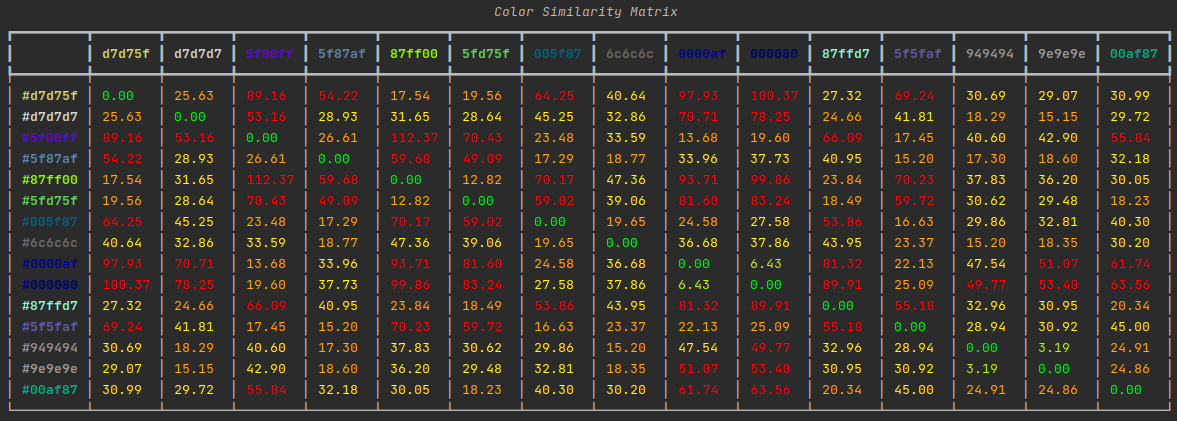
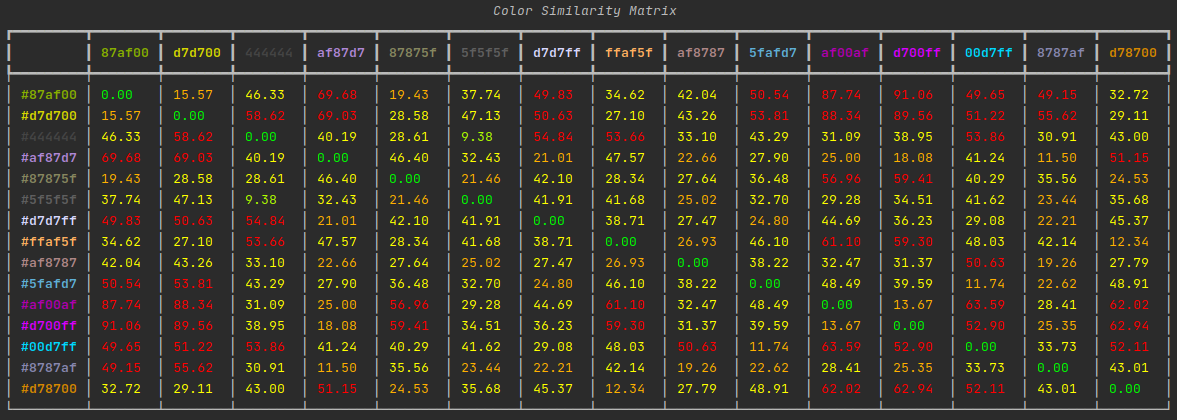
clean up algos

Changed region(s): [[0.0, 0.0, 1.0, 0.9595]]

diff --git a/src/dbscan.py b/src/dbscan.py
@@ -1,20 +1,15 @@
-import matplotlib.pyplot as plt
-import numpy as np
 
 from sklearn.metrics.pairwise import pairwise_distances
 from sklearn.cluster import DBSCAN
-from src.example import make_matrix
+from src.example import make_matrix, print_clusters
 
 
 # Try out DBScan
 colors, distance_matrix = make_matrix()
-distances = pairwise_distances(distance_matrix, metric="precomputed")
 
 # Compute DBSCAN
 # The results are pretty bad
-db = DBSCAN(eps=17, metric="precomputed", min_samples=1).fit(distances)
-core_samples_mask = np.zeros_like(db.labels_, dtype=bool)
-core_samples_mask[db.core_sample_indices_] = True
+db = DBSCAN(eps=17, metric="precomputed", min_samples=1).fit(distance_matrix)
 labels = db.labels_
 
 # Number of clusters in labels, ignoring noise if present.
@@ -24,24 +19,7 @@ n_noise_ = list(labels).count(-1)
 print("Estimated number of clusters: %d" % n_clusters_)
 print("Estimated number of noise points: %d" % n_noise_)
 
-# #############################################################################
-# Plot result
-
-# Black removed and is used for noise instead.
-unique_labels = set(labels)
-colors = [plt.cm.Spectral(each) for each in np.linspace(0, 1, len(unique_labels))]
-for k, col in zip(unique_labels, colors):
-    if k == -1:
-        # Black used for noise.
-        col = [0, 0, 0, 1]
-
-    class_member_mask = labels == k
-
-    xy = distances[class_member_mask & core_samples_mask]
-    plt.plot(xy[:, 0], xy[:, 1], "o", markerfacecolor=tuple(col), markeredgecolor="k", markersize=14)
-
-    xy = distances[class_member_mask & ~core_samples_mask]
-    plt.plot(xy[:, 0], xy[:, 1], "o", markerfacecolor=tuple(col), markeredgecolor="k", markersize=6)
-
-plt.title("Estimated number of clusters: %d" % n_clusters_)
-plt.show()
+if -1 in labels:
+    print('There were no clusters found')
+else:
+    print_clusters(colors, labels, distance_matrix)

diff --git a/src/example.py b/src/example.py
@@ -8,7 +8,6 @@ from rich.console import Console
 from rich.table import Table
 from rich.text import Text
 
-NUMBER_OF_COLORS = 15
 
 # TODO: Instead of console tables, make a heatmap graphic
 # TODO: Instead of console tables, try to make some interactive web graph
@@ -59,19 +58,19 @@ def print_matrix(hex_colors, distance_matrix, title='Color Similarity Matrix'):
     console.print(table)
 
 
-def make_matrix():
+def make_matrix(size=15):
     """
-    Return a 2D numpy array consisting of a distance matrix as well as print out the matrix
+    Make a distance matrix of random terminal colors
     :return:
     """
     # Choose some random color
     all_colors_hex = list(_xterm_colors.values())
-    chosen_colors_hex = random.sample(all_colors_hex, NUMBER_OF_COLORS)
+    chosen_colors_hex = random.sample(all_colors_hex, size)
     chosen_colors_rgb = [sRGBColor.new_from_rgb_hex(x) for x in chosen_colors_hex]
     chosen_colors_lab = [convert_color(x, LabColor) for x in chosen_colors_rgb]
 
     # Generate a similarity matrix of all colors
-    distance_matrix = np.zeros(shape=(NUMBER_OF_COLORS, NUMBER_OF_COLORS), dtype=float)
+    distance_matrix = np.zeros(shape=(size, size), dtype=float)
     for i, color_1 in enumerate(chosen_colors_lab):
         for j, color_2 in enumerate(chosen_colors_lab):
             distance_matrix[i, j] = delta_e_cie2000(color_1, color_2)
@@ -105,5 +104,5 @@ def print_clusters(colors, clusters, distance_matrix):
                 cluster['matrix'][i, j] = distance_matrix[colors.index(color_1), colors.index(color_2)]
 
     for i, cluster in divided_clusters.items():
-        print_matrix(cluster['colors'], cluster['matrix'], title=f'Cluster {i}')
+        print_matrix(cluster['colors'], cluster['matrix'], title=f'Cluster #{i + 1}')
 

diff --git a/src/agglomerative.py b/src/agglomerative.py
@@ -2,20 +2,19 @@
 # https://scikit-learn.org/stable/modules/generated/sklearn.cluster.AgglomerativeClustering.html#sklearn.cluster.AgglomerativeClustering
 # https://www.datatechnotes.com/2019/10/agglomerative-clustering-example-in.html
 
-import matplotlib.pyplot as plt
-import numpy as np
-
 from sklearn.metrics.pairwise import pairwise_distances
 from sklearn.cluster import AgglomerativeClustering
 from src.example import make_matrix, print_clusters
 
 
-# Try out DBScan
+# Try out AgglomerativeClustering
 colors, distance_matrix = make_matrix()
-distances = pairwise_distances(distance_matrix, metric="precomputed")
-
 
 aggloclust = AgglomerativeClustering(n_clusters=None, affinity='precomputed', linkage='average', distance_threshold=28).fit(distance_matrix)
 
 labels = aggloclust.labels_
-print_clusters(colors, labels, distance_matrix)
+
+if -1 in labels:
+    print('There were no clusters found')
+else:
+    print_clusters(colors, labels, distance_matrix)

diff --git a/README.md b/README.md
@@ -25,6 +25,18 @@ which has the following chart:
 | 11 - 49 | Colors are more similar than opposite  |
 | 100     | Colors are exact opposite              |
 
-## Similarity Matrix
-Here's the terminal output of the similarity matrix
+## Clustering
+Currently, the algorithms below are implemented.
+
+Each one will print out the full similarity matrix.
 ![15x15 Color Similarity Matrix using CIEDE2000](images/color_similarity_matrix.png "15x15 Color Similarity Matrix using CIEDE2000")
+
+If clusters are found, a smaller similarity matrix for each cluster will be output.
+![Similarity Matrices of each Cluster](images/clustering_matrices.png "Similarity Matrices of each Cluster")
+
+### [DBSCAN](https://scikit-learn.org/stable/modules/generated/sklearn.cluster.DBSCAN.html#sklearn.cluster.DBSCAN)
+This can be tuned with the `eps` (epsilon) parameter.
+
+### [AgglomerativeClustering](https://scikit-learn.org/stable/modules/generated/sklearn.cluster.AgglomerativeClustering.html#sklearn.cluster.AgglomerativeClustering)
+This can be tuned with the `linkage` and `distance_threshold` parameters.
+
